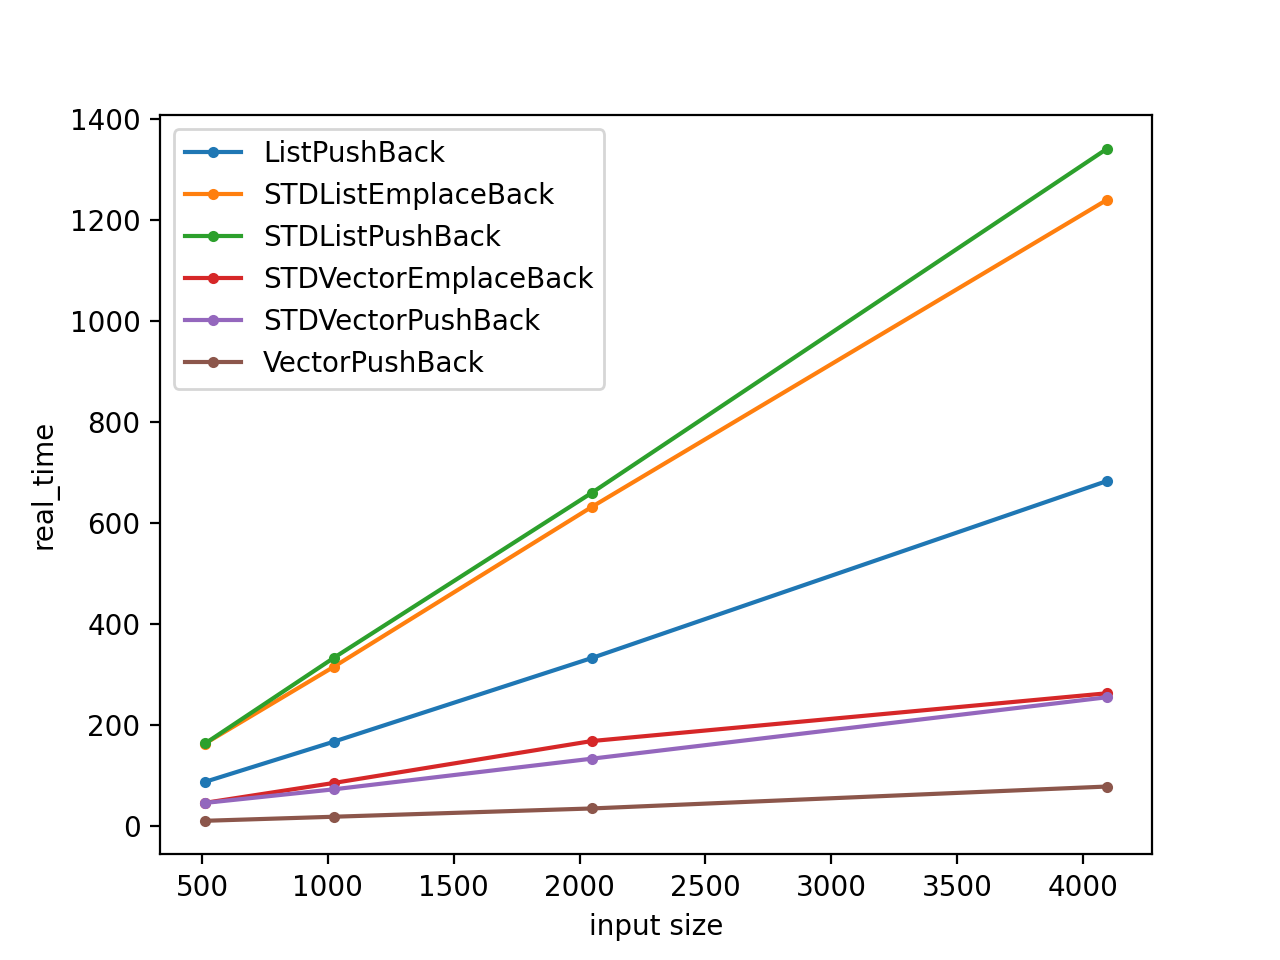
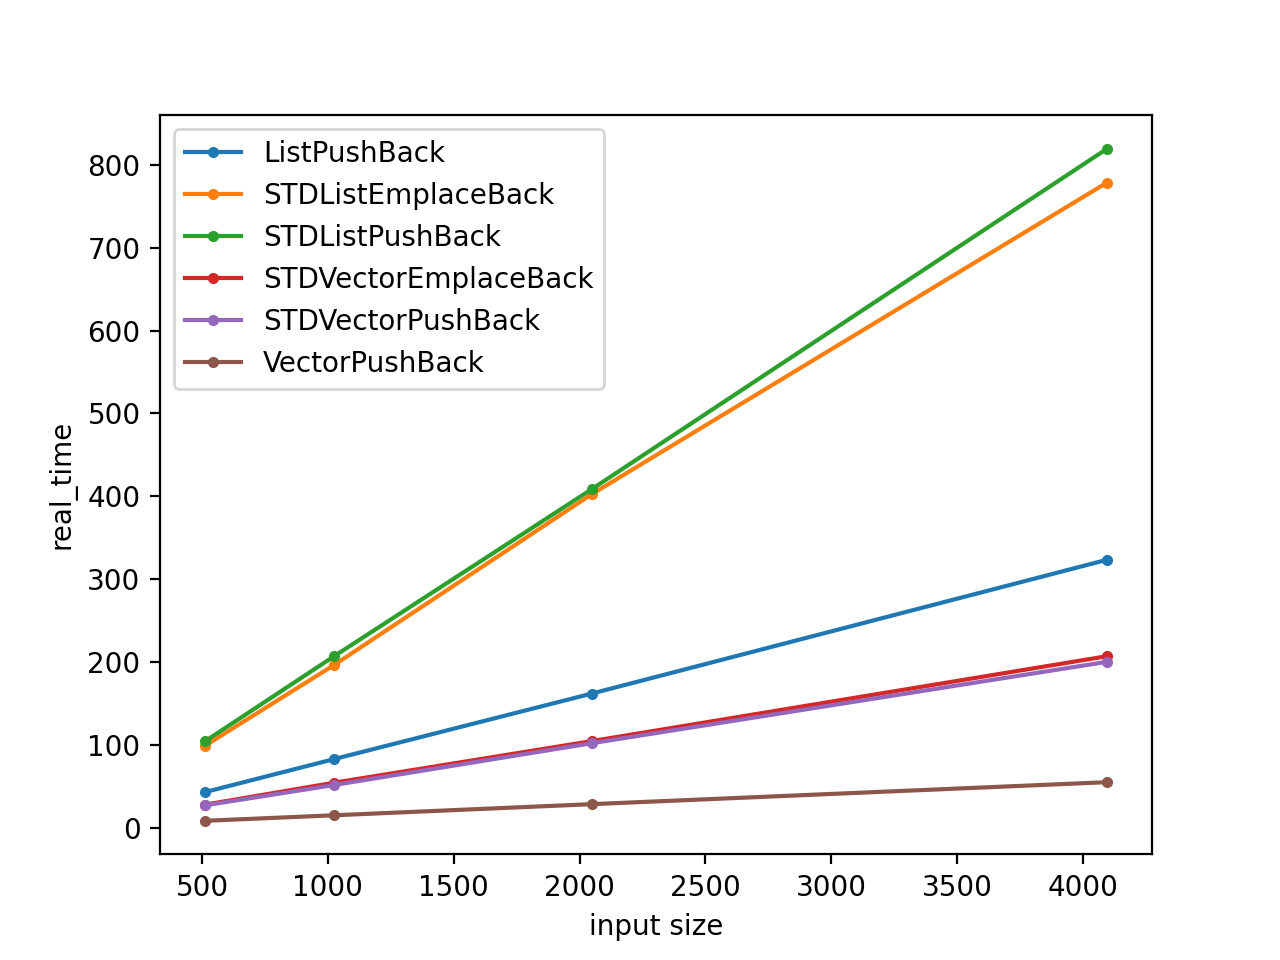
Lab2A: benches added

diff --git a/semester2/Lab2/A/benchmark.cpp b/semester2/Lab2/A/benchmark.cpp
@@ -13,61 +13,70 @@ using namespace std;
 
 #define PUSHBENCH(name, container, func) \
 void name(benchmark::State& state) { \
+  auto *c = new container<int>(); \
   for (auto _ : state) { \
     state.PauseTiming(); \
-    container<int> c; \
+    delete c; \
+    c = new container<int>(state.range()); \
     state.ResumeTiming(); \
     for (int i = 0; i < state.range(); ++i) \
-      c.func; \
+      c->func; \
   }; \
 } \
 BENCHMARK(name) \
 ->Unit(benchmark::TimeUnit::kMicrosecond) \
 ->RangeMultiplier(2) \
-->Range(512, 4096)
+->Range(512, 4096) \
 
-//
-//PUSHBENCH(ListPushBack, List, push_back(0));
-//PUSHBENCH(STDListPushBack, list, push_back(0));
-//PUSHBENCH(STDListEmplaceBack, list, emplace_back(0));
-//PUSHBENCH(VectorPushBack, Vector, push_back(0));
-//PUSHBENCH(STDVectorPushBack, vector, push_back(0));
-//PUSHBENCH(STDVectorEmplaceBack, vector, emplace_back(0));
+PUSHBENCH(ListPushBack, List, push_back(0));
+PUSHBENCH(STDListPushBack, list, push_back(0));
+PUSHBENCH(STDListEmplaceBack, list, emplace_back(0));
+PUSHBENCH(VectorPushBack, Vector, push_back(0));
+PUSHBENCH(STDVectorPushBack, vector, push_back(0));
+PUSHBENCH(STDVectorEmplaceBack, vector, emplace_back(0));
 
-//PUSHBENCH(ListPushFront, List, push_front(0));
-//PUSHBENCH(STDListPushFront, list, push_front(0));
-//PUSHBENCH(STDListEmplaceFront, list, emplace_front(0));
-//PUSHBENCH(VectorPushFront, Vector, push_front(0));
-//PUSHBENCH(STDVectorIsertBegin, vector, insert(c.begin(), 0));
+PUSHBENCH(ListPushFront, List, push_front(0));
+PUSHBENCH(STDListPushFront, list, push_front(0));
+PUSHBENCH(STDListEmplaceFront, list, emplace_front(0));
+PUSHBENCH(VectorPushFront, Vector, push_front(0));
+PUSHBENCH(STDVectorIsertBegin, vector, insert(c->begin(), 0));
+PUSHBENCH(STDVectorEmplaceBegin, vector, emplace(c->begin(), 0));
 
-//PUSHBENCH(ListInsertBegin, List, insert(0, 0));
-//PUSHBENCH(STDListInsertBegin, list, insert(c.begin(), 0));
-//PUSHBENCH(VectorInsertBegin, Vector, insert(0, 0));
-//PUSHBENCH(STDVectorInsertBegin, vector, insert(c.begin(), 0));
+PUSHBENCH(ListInsertBegin, List, insert(0, 0));
+PUSHBENCH(STDListInsertBegin, list, insert(c->begin(), 0));
+PUSHBENCH(VectorInsertBegin, Vector, insert(0, 0));
+PUSHBENCH(STDVectorInsertBegin, vector, insert(c->begin(), 0));
 
 #define RANGEBENCH(name, container) \
 void name(benchmark::State& state) { \
+  auto *c = new container<int>(); \
   for (auto _ : state) { \
     state.PauseTiming(); \
-    container<int> c(state.range()); \
+    delete c; \
+    c = new container<int>(state.range()); \
     state.ResumeTiming(); \
-    for(auto a : c);\
+    for(auto a : *c);\
   }; \
 } \
 BENCHMARK(name) \
 ->Unit(benchmark::TimeUnit::kMicrosecond) \
 ->RangeMultiplier(2) \
-->Range(512, 4096)
+->Range(512, 4096) \
+->Iterations(8000)
 
-//RANGEBENCH(ListForRange, List);
-//RANGEBENCH(STDListForRange, list);
-//RANGEBENCH(VectorForRange, Vector);
-//RANGEBENCH(STDVectorForRange, vector);
+RANGEBENCH(ListForRange, List);
+RANGEBENCH(STDListForRange, list);
+RANGEBENCH(VectorForRange, Vector);
+RANGEBENCH(STDVectorForRange, vector);
 
 #define INITBENCH(name, container) \
 void name(benchmark::State& state) { \
+  container<int> *c; \
   for (auto _ : state) { \
-    container<int> c(state.range()); \
+    c = new container<int>(state.range()); \
+    state.PauseTiming(); \
+    delete c; \
+    state.ResumeTiming(); \
   }; \
 } \
 BENCHMARK(name) \
@@ -75,10 +84,34 @@ BENCHMARK(name) \
 ->RangeMultiplier(2) \
 ->Range(512, 4096)
 
-INITBENCH(ListInitWithValue, List);
-INITBENCH(STDListInitWithValue, list);
-INITBENCH(VectorInitWithValue, Vector);
-INITBENCH(STDVectorInitWithValue, vector);
+INITBENCH(ListInitWithZero, List);
+INITBENCH(STDListInitWithZero, list);
+INITBENCH(VectorInitWithZero, Vector);
+INITBENCH(STDVectorInitWithZero, vector);
+
+
+#define ERASEBENCH(name, container, func) \
+void name(benchmark::State& state) { \
+  auto *c = new container<int>(); \
+  for (auto _ : state) { \
+    state.PauseTiming(); \
+    delete c; \
+    c = new container<int>(state.range()); \
+    state.ResumeTiming(); \
+    c->func; \
+  } \
+} \
+BENCHMARK(name) \
+->Unit(benchmark::TimeUnit::kMicrosecond) \
+->RangeMultiplier(2) \
+->Range(512, 4096) \
+->Iterations(8000)
+
+ERASEBENCH(ListEraseBegin, List, erase(0));
+ERASEBENCH(STDListEraseBegin, list, erase(c->begin()));
+ERASEBENCH(VectorEraseBegin, Vector, erase(0));
+ERASEBENCH(STDVectorEraseBegin, vector, erase(c->begin()));
+
 
 BENCHMARK_MAIN();
 

diff --git a/semester2/Lab2/A/List.hpp b/semester2/Lab2/A/List.hpp
@@ -298,8 +298,13 @@ void List<T>::print() const {
 template<typename T>
 void List<T>::erase(size_t index) {
   auto i = begin_;
-  for (int j = 0; j < index; ++j) i = i->next;
-  i->prev->next = i->next;
+  if (index) {
+    for (int j = 0; j < index; ++j) i = i->next;
+    i->prev->next = i->next;
+  }
+  else {
+    begin_ = begin_->next;
+  }
   i->next->prev = i->prev;
   delete i;
 }
